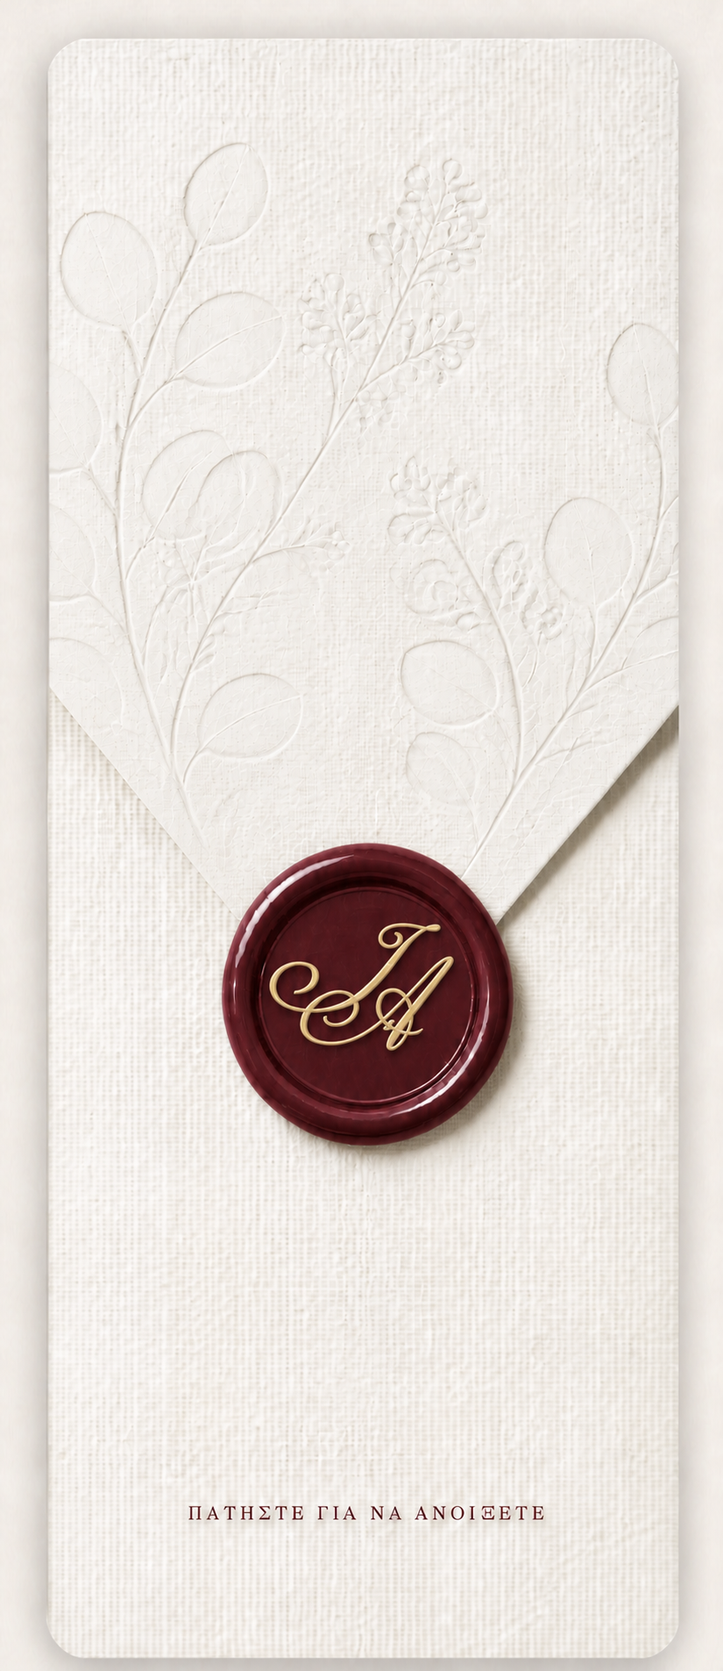
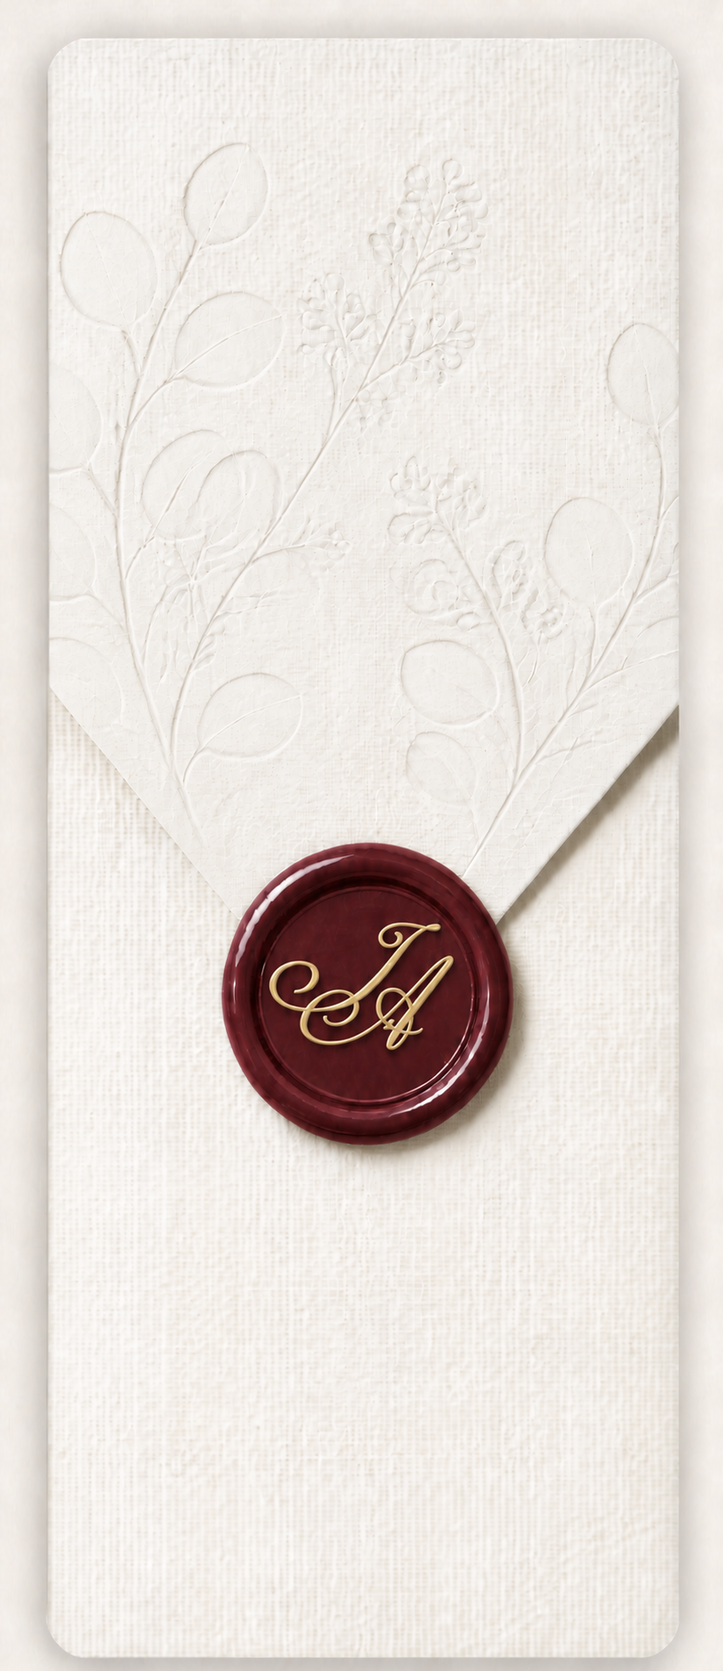
Connect live RSVP and Cloudinary guest uploads; refine invitation

diff --git a/index.html b/index.html
@@ -1,11 +1,11 @@
-<!doctype html><html lang="el"><head><meta charset="utf-8"><meta name="viewport" content="width=device-width,initial-scale=1"><meta name="theme-color" content="#521c2a"><title>Ιωάννης & Αικατερίνη | 27.12.2026</title><meta name="description" content="Στο νέο ξεκίνημα της ζωής μας. Ιωάννης και Αικατερίνη, 27 Δεκεμβρίου 2026 στις 16:30, στον Ιερό Μητροπολιτικό Ναό Αγίου Αχιλλίου Λαρίσης."><meta property="og:type" content="website"><meta property="og:locale" content="el_GR"><meta property="og:title" content="Ιωάννης & Αικατερίνη | 27.12.2026"><meta property="og:description" content="Η παρουσία, οι ευχές και οι προσευχές σας είναι για εμάς το πολυτιμότερο δώρο."><meta property="og:image" content="https://giannispap232.github.io/share-thumbnail.png"><meta property="og:image:width" content="1200"><meta property="og:image:height" content="1200"><meta property="og:image:alt" content="Ιωάννης και Αικατερίνη, 27 Δεκεμβρίου 2026"><meta name="twitter:card" content="summary_large_image"><meta name="twitter:title" content="Ιωάννης & Αικατερίνη | 27.12.2026"><meta name="twitter:description" content="Στο νέο ξεκίνημα της ζωής μας."><meta name="twitter:image" content="https://giannispap232.github.io/share-thumbnail.png"><link rel="icon" href="favicon.png" type="image/png"><link rel="apple-touch-icon" href="apple-touch-icon.png"><link rel="stylesheet" href="design.css"><link rel="stylesheet" href="fix.css"><link rel="stylesheet" href="contrast.css"><link rel="stylesheet" href="responsive.css"><link rel="stylesheet" href="brand.css?v=refinements1"><link rel="canonical" href="https://giannispap232.github.io/"><meta property="og:url" content="https://giannispap232.github.io/"></head><body class="locked"><section class="intro" id="intro"><button class="envelope" id="envelope" aria-label="Ανοίξτε το προσκλητήριο"><span class="env-back"></span><span class="env-front"></span><span class="flap"></span></button><p class="tap">Πατήστε τη σφραγίδα</p></section>
+<!doctype html><html lang="el"><head><meta charset="utf-8"><meta name="viewport" content="width=device-width,initial-scale=1"><meta name="theme-color" content="#521c2a"><title>Ιωάννης & Αικατερίνη | 27.12.2026</title><meta name="description" content="Στο νέο ξεκίνημα της ζωής μας. Ιωάννης και Αικατερίνη, 27 Δεκεμβρίου 2026 στις 16:30, στον Ιερό Μητροπολιτικό Ναό Αγίου Αχιλλίου Λαρίσης."><meta property="og:type" content="website"><meta property="og:locale" content="el_GR"><meta property="og:title" content="Ιωάννης & Αικατερίνη | 27.12.2026"><meta property="og:description" content="Η παρουσία, οι ευχές και οι προσευχές σας είναι για εμάς το πολυτιμότερο δώρο."><meta property="og:image" content="https://giannispap232.github.io/share-thumbnail.png"><meta property="og:image:width" content="1200"><meta property="og:image:height" content="1200"><meta property="og:image:alt" content="Ιωάννης και Αικατερίνη, 27 Δεκεμβρίου 2026"><meta name="twitter:card" content="summary_large_image"><meta name="twitter:title" content="Ιωάννης & Αικατερίνη | 27.12.2026"><meta name="twitter:description" content="Στο νέο ξεκίνημα της ζωής μας."><meta name="twitter:image" content="https://giannispap232.github.io/share-thumbnail.png"><link rel="icon" href="favicon.png" type="image/png"><link rel="apple-touch-icon" href="apple-touch-icon.png"><link rel="stylesheet" href="design.css"><link rel="stylesheet" href="fix.css"><link rel="stylesheet" href="contrast.css"><link rel="stylesheet" href="responsive.css"><link rel="stylesheet" href="brand.css?v=layout3"><link rel="canonical" href="https://giannispap232.github.io/"><meta property="og:url" content="https://giannispap232.github.io/"></head><body class="locked"><section class="intro" id="intro"><button class="envelope" id="envelope" aria-label="Ανοίξτε το προσκλητήριο"><span class="env-back"></span><span class="env-front"></span><span class="flap"></span></button><p class="tap">Πατήστε για να ανοίξετε</p></section>
 <main id="content" inert aria-hidden="true">
   <section class="date-hero section"><div class="date-stack reveal-down" aria-label="Ιωάννης και Αικατερίνη, 27 Δεκεμβρίου 2026"><span class="hero-number">27</span><b class="groom-name"><img src="name-ioannis.svg" alt="Ιωάννης"></b><div class="middle-date"><span class="hero-number">12</span></div><b class="bride-name"><img src="name-aikaterini.svg" alt="Αικατερίνη"></b><span class="hero-number">26</span></div></section>
   <section class="countdown-section section reveal-up" id="countdown"><h2>Και μετράμε αντίστροφα:</h2><div class="countdown"><div><b id="days">—</b><small>Ημέρες</small></div><div><b id="hours">—</b><small>Ώρες</small></div><div><b id="minutes">—</b><small>Λεπτά</small></div><div><b id="seconds">—</b><small>Δ/λεπτα</small></div></div></section>
-  <section class="invitation section floral-section"><div class="photo-panel"><img id="couplePhoto" src="couple.jpg" alt="Ο Ιωάννης και η Αικατερίνη μαζί"></div><div class="invite-card"><p class="verse">…καὶ εὐαρεστήσαντες<br>ἐνώπιόν σου<br>λάμψωσιν ὡς φωστῆρες<br>ἐν οὐρανῷ…</p><span class="divider">✦</span><h1 class="exact-names"><img src="name-ioannis.svg" alt="Ιωάννης"><img class="amp-art" src="ampersand.svg" alt="&"><img src="name-aikaterini.svg" alt="Αικατερίνη"></h1><div class="people"><div><h2>Οι οικογένειες</h2><p>π. Δημητρίου & Ιφιγένειας Παπαγεωργίου<br>Χρήστου & Φωτεινής Τζίκα</p></div><div><h2>Ο κουμπάρος</h2><p>Χρήστος Παπαχαραλάμπους</p></div></div></div></section><section class="wedding-day section reveal-up"><h2>Η Μέρα του Γάμου</h2><span class="day-star">✦</span><div class="day-cards"><article class="day-card"><span class="day-icon" aria-hidden="true"><img src="wedding-rings.svg" alt=""></span><h3>Γάμος</h3><strong>16:30</strong><p>27 Δεκεμβρίου 2026</p><h4>Ιερός Μητροπολιτικός Ναός<br>Αγίου Αχιλλίου Λαρίσης</h4><a target="_blank" rel="noopener" href="https://www.google.com/maps/search/?api=1&query=Ιερός+Μητροπολιτικός+Ναός+Αγίου+Αχιλλίου+Λάρισα">📍 Δείτε στον χάρτη</a></article><article class="day-card"><span class="day-icon" aria-hidden="true"><img src="cutlery.svg" alt=""></span><h3>Δεξίωση</h3><p class="reception-intro">Θα ακολουθήσει δεξίωση στο</p><h4>Κτήμα Πισίνα</h4><a target="_blank" rel="noopener" href="https://www.google.com/maps/search/?api=1&query=Κτήμα+Πισίνα+Λάρισα">📍 Δείτε στον χάρτη</a></article></div></section>
-  <section class="rsvp section" id="rsvp"><div class="rsvp-card"><p>Για την παρουσία σας στο τραπέζι,<br>συμπληρώστε την παρακάτω φόρμα.</p><p class="deadline">Σε περίπτωση απουσίας σας ενημερώστε μας έως 10/12.</p><form id="rsvpForm"><label>Ονοματεπώνυμο<input name="name" required autocomplete="name"></label><label>Τηλέφωνο<input name="phone" type="tel" required autocomplete="tel"></label><fieldset><legend>Θα έρθετε στη δεξίωση;</legend><label class="choice"><input type="radio" name="attendance" value="Ναι" required> Ναι</label><label class="choice"><input type="radio" name="attendance" value="Όχι"> Όχι</label></fieldset><label>Αν ΝΑΙ, πόσα άτομα να σημειώσουμε;<select name="guests" required><option value="">Επιλέξτε</option><option>1</option><option>2</option><option>3</option><option>4</option><option>5</option><option>6</option><option>7</option><option>8</option><option>9</option><option>10</option></select></label><label>Κάτι που θέλετε να μας πείτε…<textarea name="message" rows="3"></textarea></label><button class="button" type="submit">Δοκιμή απάντησης</button><p class="preview-note">Offline προεπισκόπηση: η απάντηση αποθηκεύεται μόνο σε αυτόν τον browser. Δεν αποστέλλεται στο ζευγάρι.</p><p id="formStatus" role="status"></p></form></div></section>
+  <section class="invitation section floral-section"><div class="photo-panel"><img id="couplePhoto" src="couple.jpg" alt="Ο Ιωάννης και η Αικατερίνη μαζί"></div><div class="invite-card"><p class="verse">…καὶ εὐαρεστήσαντες<br>ἐνώπιόν σου<br>λάμψωσιν ὡς φωστῆρες<br>ἐν οὐρανῷ…</p><span class="divider">✦</span><h1 class="exact-names"><img src="name-ioannis.svg" alt="Ιωάννης"><img class="amp-art" src="ampersand.svg" alt="&"><img src="name-aikaterini.svg" alt="Αικατερίνη"></h1><div class="people"><div><h2>Οι οικογένειες</h2><p>π. Δημητρίου & Ιφιγένειας<span class="family-name">Παπαγεωργίου</span><span class="family-group">Χρήστου & Φωτεινής<span class="family-name">Τζίκα</span></span></p></div><div><h2>Ο κουμπάρος</h2><p>Χρήστος Παπαχαραλάμπους</p></div></div></div></section><section class="wedding-day section reveal-up"><h2>Η Μέρα του Γάμου</h2><span class="day-star">✦</span><div class="day-cards"><article class="day-card"><span class="day-icon" aria-hidden="true"><img src="wedding-rings.svg" alt=""></span><h3>Γάμος</h3><strong>16:30</strong><p>27 Δεκεμβρίου 2026</p><h4>Ιερός Μητροπολιτικός Ναός<br>Αγίου Αχιλλίου Λαρίσης</h4><a target="_blank" rel="noopener" href="https://www.google.com/maps/search/?api=1&query=Ιερός+Μητροπολιτικός+Ναός+Αγίου+Αχιλλίου+Λάρισα">📍 Δείτε στον χάρτη</a></article><article class="day-card"><span class="day-icon" aria-hidden="true"><img src="cutlery.svg" alt=""></span><h3>Δεξίωση</h3><p class="reception-intro">Θα ακολουθήσει δεξίωση στο</p><h4>Κτήμα Πισίνα</h4><a target="_blank" rel="noopener" href="https://www.google.com/maps/search/?api=1&query=Κτήμα+Πισίνα+Λάρισα">📍 Δείτε στον χάρτη</a></article></div></section>
+  <section class="rsvp section" id="rsvp"><div class="rsvp-card"><p>Για την παρουσία σας στο τραπέζι,<br>συμπληρώστε την παρακάτω φόρμα.</p><p class="deadline">Σε περίπτωση απουσίας σας ενημερώστε μας έως 10/12.</p><form id="rsvpForm"><label>Ονοματεπώνυμο<input name="name" required autocomplete="name"></label><label>Τηλέφωνο<input name="phone" type="tel" required autocomplete="tel"></label><fieldset><legend>Θα έρθετε στη δεξίωση;</legend><label class="choice"><input type="radio" name="attendance" value="Ναι" required> Ναι</label><label class="choice"><input type="radio" name="attendance" value="Όχι"> Όχι</label></fieldset><label>Αν ΝΑΙ, πόσα άτομα να σημειώσουμε;<select name="guests" required><option value="">Επιλέξτε</option><option>1</option><option>2</option><option>3</option><option>4</option><option>5</option><option>6</option><option>7</option><option>8</option><option>9</option><option>10</option></select></label><label>Κάτι που θέλετε να μας πείτε…<textarea name="message" rows="3"></textarea></label><button class="button" type="submit">Αποστολή απάντησης</button><p id="formStatus" role="status"></p></form></div></section>
 <section class="gift section"><p class="gift-intro">Στο νέο ξεκίνημα της ζωής μας<br>η παρουσία, οι ευχές και οι προσευχές σας<br>είναι για εμάς το πολυτιμότερο δώρο.</p><p class="eyebrow">ΠΡΟΑΙΡΕΤΙΚΗ ΛΙΣΤΑ ΓΑΜΟΥ</p><div class="gift-options"><div class="bank-card"><span class="bank-icon" aria-hidden="true">€</span><h3>Εθνική Τράπεζα</h3><button class="copy-gift" data-copy="GR8901107210000072110317087">GR89 0110 7210 0000 7211 0317 087</button><p class="copy-status" role="status">Πατήστε για αντιγραφή</p></div><div class="bank-card"><span class="bank-icon" aria-hidden="true">✦</span><h3>IRIS Payments</h3><button class="copy-gift" data-copy="6977184895">697 718 4895</button><p class="copy-status" role="status">Πατήστε για αντιγραφή</p></div></div><p class="gift-thanks">Σας ευχαριστούμε θερμά.</p></section>
-<section class="album section"><h2>Οι στιγμές μας</h2><p>Βοηθήστε μας να δημιουργήσουμε ένα μοναδικό ψηφιακό άλμπουμ,<br>γεμάτο χαμόγελα, συγκινήσεις και αυθόρμητες στιγμές!</p><label class="button upload-label" for="photos">Επιλέξτε φωτογραφίες</label><input class="file-input" id="photos" type="file" accept="image/jpeg,image/png,image/webp,image/heic,image/heif" multiple><p class="preview-note">Τοπική δοκιμή: οι φωτογραφίες εμφανίζονται μόνο στη συσκευή σας και δεν ανεβαίνουν στο διαδίκτυο.</p><p id="uploadStatus" role="status"></p><div id="photoPreview" class="photo-preview"></div></section>
+<section class="album section"><h2>Οι στιγμές μας</h2><p>Βοηθήστε μας να δημιουργήσουμε ένα μοναδικό ψηφιακό άλμπουμ,<br>γεμάτο χαμόγελα, συγκινήσεις και αυθόρμητες στιγμές!</p><button type="button" class="soft-button upload-label">Ανεβάστε φωτογραφίες</button><p id="uploadStatus" role="status"></p><div id="photoPreview" class="photo-preview"></div></section>
 <footer class="section"><h2>Στοιχεία επικοινωνίας.</h2><div class="phone-links"><a href="tel:+306971783528"><b>Ιωάννης</b><span>697 178 3528</span></a><a href="tel:+306977184895"><b>Αικατερίνη</b><span>697 718 4895</span></a></div></footer>
-</main><button class="music show" id="music" aria-label="Αναπαραγωγή μουσικής" aria-pressed="false" hidden>♫</button><audio id="audio" src="music.mp3" loop preload="none"></audio><script src="script.js"></script></body></html>
+</main><button class="music show" id="music" aria-label="Αναπαραγωγή μουσικής" aria-pressed="false" hidden><svg viewBox="0 0 24 24" aria-hidden="true" focusable="false"><path fill="currentColor" d="M8 5.5a1 1 0 0 1 1.5-.86l10 6a1 1 0 0 1 0 1.72l-10 6A1 1 0 0 1 8 17.5z"/></svg></button><audio id="audio" src="music.mp3" loop preload="none"></audio><script src="https://upload-widget.cloudinary.com/latest/global/all.js"></script><script src="script.js?v=connected3"></script></body></html>
 

diff --git a/script.js b/script.js
@@ -1,18 +1,65 @@
 'use strict';
 if('scrollRestoration'in history)history.scrollRestoration='manual';
 const $=selector=>document.querySelector(selector),audio=$('#audio'),music=$('#music');
-function musicState(){music.setAttribute('aria-pressed',String(!audio.paused));music.setAttribute('aria-label',audio.paused?'Αναπαραγωγή μουσικής':'Παύση μουσικής');music.textContent=audio.paused?'♫':'Ⅱ'}
+function musicState(){music.setAttribute('aria-pressed',String(!audio.paused));music.setAttribute('aria-label',audio.paused?'Αναπαραγωγή μουσικής':'Παύση μουσικής');music.innerHTML=audio.paused?'<svg viewBox="0 0 24 24" aria-hidden="true" focusable="false"><path fill="currentColor" d="M8 5.5a1 1 0 0 1 1.5-.86l10 6a1 1 0 0 1 0 1.72l-10 6A1 1 0 0 1 8 17.5z"/></svg>':'<svg viewBox="0 0 24 24" aria-hidden="true" focusable="false"><rect x="6" y="5" width="4" height="14" rx=".8" fill="currentColor"/><rect x="14" y="5" width="4" height="14" rx=".8" fill="currentColor"/></svg>'}
 $('#envelope').addEventListener('click',()=>{$('#envelope').classList.add('is-open');audio.play().then(musicState).catch(musicState);setTimeout(()=>{$('#content').inert=false;$('#content').removeAttribute('aria-hidden');document.body.classList.remove('locked');$('#intro').classList.add('open');music.hidden=false;window.scrollTo(0,0);setTimeout(()=>{$('#intro').hidden=true},900)},1200)},{once:true});
 music.addEventListener('click',()=>{if(audio.paused)audio.play().then(musicState).catch(musicState);else{audio.pause();musicState()}});
 $('#content').setAttribute('tabindex','-1');
 $('#envelope').addEventListener('click',()=>setTimeout(()=>$('#content').focus({preventScroll:true}),1250),{once:true});
 const wedding=new Date('2026-12-27T16:30:00+02:00');function tick(){const d=Math.max(0,wedding-Date.now()),v=[Math.floor(d/864e5),Math.floor(d/36e5)%24,Math.floor(d/6e4)%60,Math.floor(d/1e3)%60];['days','hours','minutes','seconds'].forEach((id,i)=>$('#'+id).textContent=String(v[i]).padStart(2,'0'))}tick();setInterval(tick,1000);
 const form=$('#rsvpForm');form.addEventListener('change',()=>{const no=form.elements.attendance.value==='Όχι';form.elements.guests.disabled=no;form.elements.guests.required=!no});
-form.addEventListener('submit',event=>{event.preventDefault();const data=Object.fromEntries(new FormData(form));data.guests=data.attendance==='Όχι'?0:Number(data.guests);data.updatedAt=new Date().toISOString();try{localStorage.setItem('ioannis-aikaterini-offline-rsvp',JSON.stringify(data));$('#formStatus').textContent='Η δοκιμή αποθηκεύτηκε τοπικά. Δεν έχει αποσταλεί απάντηση στο ζευγάρι.'}catch{$('#formStatus').textContent='Η τοπική αποθήκευση δεν επιτρέπεται. Δεν έχει αποσταλεί απάντηση.'}});
 function legacyCopy(value){const input=document.createElement('textarea');input.value=value;input.setAttribute('readonly','');input.style.cssText='position:fixed;opacity:0;pointer-events:none';document.body.appendChild(input);input.select();const copied=document.execCommand('copy');input.remove();return copied}
 document.querySelectorAll('.copy-gift').forEach(button=>button.addEventListener('click',async()=>{let copied=false;try{await navigator.clipboard.writeText(button.dataset.copy);copied=true}catch{copied=legacyCopy(button.dataset.copy)}button.closest('.bank-card').querySelector('.copy-status').textContent=copied?'✓ Αντιγράφηκε!':'Για αντιγραφή: '+button.dataset.copy}));
-let previewUrls=[];$('#photos').addEventListener('change',()=>{previewUrls.forEach(URL.revokeObjectURL);previewUrls=[];const preview=$('#photoPreview');preview.replaceChildren();const files=[...$('#photos').files];if(files.length>20){$('#uploadStatus').textContent='Επιλέξτε έως 20 φωτογραφίες ανά φορά.';$('#photos').value='';return}let accepted=0;for(const file of files){if(file.size>15000000||!(/\.(jpe?g|png|webp|heic|heif)$/i.test(file.name)))continue;accepted++;const figure=document.createElement('figure'),img=document.createElement('img'),caption=document.createElement('figcaption');const url=URL.createObjectURL(file);previewUrls.push(url);img.src=url;img.alt='Τοπική προεπισκόπηση φωτογραφίας';img.onerror=()=>{const note=document.createElement('div');note.className='unsupported';note.textContent='Η προεπισκόπηση αυτού του τύπου δεν υποστηρίζεται στον browser σας.';img.replaceWith(note)};caption.textContent=file.name;figure.append(img,caption);preview.append(figure)}$('#uploadStatus').textContent=accepted?`${accepted} φωτογραφίες επιλέχθηκαν τοπικά. Δεν έχει ανέβει κανένα αρχείο.`:files.length?'Δεν επιλέχθηκαν υποστηριζόμενες φωτογραφίες έως 15 MB.':''});
 const revealObserver=new IntersectionObserver(entries=>entries.forEach(entry=>{if(entry.isIntersecting){entry.target.classList.add('revealed');revealObserver.unobserve(entry.target)}}),{threshold:.12});document.querySelectorAll('.reveal-up,.reveal-down').forEach(el=>revealObserver.observe(el));
 const reduceMotion=matchMedia('(prefers-reduced-motion: reduce)'),photo=$('#couplePhoto'),photoPanel=$('.photo-panel'),flowers=[...document.querySelectorAll('.scroll-flower')];let scrollFrame=0;
 function animateScroll(){scrollFrame=0;if(reduceMotion.matches){photoPanel.style.setProperty('--photo-shift','0px');return}flowers.forEach((el,i)=>{const base=Number(el.dataset.base||0);el.style.transform=`rotate(${base+(i%2?-1:1)*scrollY*.055}deg) scale(${1+Math.min(scrollY,1800)/6000})`});const rect=photoPanel.getBoundingClientRect();if(rect.bottom>0&&rect.top<innerHeight){const progress=(innerHeight/2-(rect.top+rect.height/2))/(innerHeight+rect.height);const shift=Math.max(-rect.height*.075,Math.min(rect.height*.075,progress*rect.height*.2));photoPanel.style.setProperty('--photo-shift',shift.toFixed(2)+'px')}}
 window.addEventListener('scroll',()=>{if(!scrollFrame)scrollFrame=requestAnimationFrame(animateScroll)},{passive:true});window.addEventListener('resize',()=>{if(!scrollFrame)scrollFrame=requestAnimationFrame(animateScroll)});reduceMotion.addEventListener('change',animateScroll);animateScroll();
+
+// Production configuration is assigned after the Google deployment is approved.
+const WEDDING_ENDPOINT='https://script.google.com/macros/s/AKfycbxMYUkIipAofr5_psUrQE4S04gU5XLByS8wIeMRAQFjfIrdCmmB8wsurUokLZ-9sx5NMw/exec';
+function weddingId(){return crypto.randomUUID?crypto.randomUUID():Date.now().toString(36)+'-'+Array.from(crypto.getRandomValues(new Uint8Array(20)),x=>x.toString(16).padStart(2,'0')).join('')}
+let visitorId;try{visitorId=localStorage.getItem('ia-visitor');if(!visitorId){visitorId=weddingId();localStorage.setItem('ia-visitor',visitorId)}}catch{visitorId=weddingId()}
+function acknowledgement(requestId){return new Promise((resolve,reject)=>{
+  const name='ia_ack_'+requestId.replaceAll('-',''),script=document.createElement('script');
+  const cleanup=()=>{clearTimeout(timer);script.remove();delete window[name]};
+  window[name]=value=>{cleanup();resolve(value)};script.onerror=()=>{cleanup();reject(new Error('connection'))};
+  const timer=setTimeout(()=>{cleanup();reject(new Error('timeout'))},12000);
+  script.src=WEDDING_ENDPOINT+'?requestId='+encodeURIComponent(requestId)+'&callback='+name+'&t='+Date.now();document.head.appendChild(script);
+})}
+async function sendWedding(fields,onProgress){
+  if(!WEDDING_ENDPOINT.startsWith('https://script.google.com/macros/s/'))throw new Error('configuration');
+  const requestId=weddingId(),body=new URLSearchParams({...fields,requestId,visitorId});
+  await fetch(WEDDING_ENDPOINT,{method:'POST',mode:'no-cors',redirect:'follow',body});
+  const end=Date.now()+90000;let attempts=0;
+  while(Date.now()<end){
+    try{const answer=await acknowledgement(requestId);if(answer.ok)return;if(answer.error)throw new Error('save_failed')}
+    catch(error){if(error.message==='save_failed')throw error;if(++attempts>4)throw error}
+    if(onProgress)onProgress();await new Promise(resolve=>setTimeout(resolve,1800));
+  }throw new Error('timeout');
+}
+form.addEventListener('submit',async event=>{
+  event.preventDefault();if(!form.reportValidity())return;
+  const button=form.querySelector('[type="submit"]');if(button.disabled)return;button.disabled=true;form.setAttribute('aria-busy','true');
+  const values=Object.fromEntries(new FormData(form));values.guests=values.attendance==='Όχι'?0:Number(values.guests);
+  $('#formStatus').textContent='Η απάντησή σας αποστέλλεται…';
+  try{await sendWedding({action:'rsvp',...values});$('#formStatus').textContent='Η απάντησή σας καταχωρίστηκε. Σας ευχαριστούμε!'}
+  catch{$('#formStatus').textContent='Δεν επιβεβαιώθηκε η καταχώριση. Παρακαλούμε δοκιμάστε ξανά ή επικοινωνήστε μαζί μας στα παρακάτω τηλέφωνα.'}
+  finally{button.disabled=false;form.removeAttribute('aria-busy')}
+});
+document.querySelectorAll('.copy-gift').forEach(button=>button.addEventListener('click',()=>{sendWedding({action:'gift_click',gift:button.dataset.copy.startsWith('GR')?'IBAN':'IRIS'}).catch(()=>{})}));
+const uploadButton=$('.soft-button'),uploadStatus=$('#uploadStatus');
+let uploadWidget;
+uploadButton.addEventListener('click',()=>{
+  if(!window.cloudinary){uploadStatus.textContent='Η μεταφόρτωση δεν φορτώθηκε. Ανανεώστε τη σελίδα και δοκιμάστε ξανά.';return}
+  if(!uploadWidget)uploadWidget=window.cloudinary.createUploadWidget({
+    cloudName:'cxeukl4a',uploadPreset:'wedding_guests_2026',sources:['local','camera'],multiple:true,
+    clientAllowedFormats:['jpg','jpeg','png','webp','heic'],maxFileSize:15000000,maxFiles:20,
+    showAdvancedOptions:false,showCompletedButton:true,singleUploadAutoClose:false,
+    text:{el:{menu:{files:'Από τη συσκευή',camera:'Κάμερα'},local:{browse:'Επιλογή φωτογραφιών',dd_title_single:'Σύρετε μία φωτογραφία εδώ',dd_title_multi:'Σύρετε φωτογραφίες εδώ'},queue:{title:'Αρχεία για ανέβασμα',title_uploading:'Οι φωτογραφίες ανεβαίνουν',title_uploading_with_counter:'Ανεβαίνουν {{num}} φωτογραφίες',title_uploading_processing:'Γίνεται επεξεργασία',done:'Ολοκληρώθηκε',mini_title:'Ανέβηκαν',mini_title_uploading:'Ανεβαίνουν'},notifications:{general_error:'Κάτι πήγε στραβά. Δοκιμάστε ξανά.',completed:'Η μεταφόρτωση ολοκληρώθηκε.'}}}
+  },(error,result)=>{
+    if(error){uploadStatus.textContent='Δεν ολοκληρώθηκε η μεταφόρτωση. Δοκιμάστε ξανά.';return}
+    if(result&&result.event==='success')uploadStatus.textContent='Η φωτογραφία ανέβηκε. Ευχαριστούμε!';
+    if(result&&result.event==='queues-end')uploadStatus.textContent='Οι φωτογραφίες ανέβηκαν. Ευχαριστούμε!';
+  });
+  uploadWidget.open();
+});

diff --git a/brand.css b/brand.css
@@ -17,3 +17,37 @@
 .gift .eyebrow{margin:0 auto 26px}
 @media(min-width:761px){.photo-panel{width:calc(100% - clamp(24px,4vw,64px));margin-left:clamp(24px,4vw,64px);margin-right:0}.photo-panel img{object-position:48% 40%}}
 @media(max-width:760px){.photo-panel{width:calc(100% - 24px);margin:28px 0 0 24px;min-height:0!important;height:auto!important;aspect-ratio:3/4}.photo-panel img{object-position:48% 40%}.day-card{min-height:520px}.day-card a{margin-top:26px}.day-card .reception-intro{margin:0 0 12px}}
+
+/* Readable supporting type and a true vector music control. */
+.music{display:grid!important;place-items:center;padding:0!important;line-height:1!important}
+.music[hidden]{display:none!important}
+.music svg{display:block;width:24px;height:24px;flex-shrink:0}
+.countdown small{font-size:clamp(.9rem,1.25vw,1.05rem)!important;line-height:1.5}
+.family-name{display:block}
+.family-group{display:block;margin-top:18px}
+@media(min-width:761px){
+ .countdown-section h2,.wedding-day>h2,.album h2{font-size:clamp(2.25rem,3.2vw,3.35rem)!important;line-height:1.25!important}
+ .invite-card .people h2{font-size:2rem!important}
+ .invite-card .people p{font-size:clamp(1.25rem,1.7vw,1.45rem)!important;line-height:1.65!important}
+ .invite-card .verse{font-size:clamp(1.25rem,1.7vw,1.5rem)!important}
+ .exact-names{max-width:350px}
+ .day-card h3{font-size:clamp(2rem,2.8vw,2.6rem)!important}
+ .day-card p{font-size:clamp(1.15rem,1.5vw,1.35rem)}
+ .day-card h4{font-size:clamp(1.35rem,1.9vw,1.7rem)!important}
+ .day-card a{font-size:1.1rem}
+ .rsvp label,.rsvp legend,.rsvp input,.rsvp select,.rsvp textarea{font-size:1.125rem}
+ .rsvp-card .deadline{font-size:1.15rem}
+ .gift .eyebrow{font-size:1.2rem}
+ .copy-status{font-size:1rem!important}
+ .album>p,.gift-intro{font-size:1.35rem}
+}
+
+/* Stable viewport instruction, single image layer and balanced gift spacing. */
+.intro .tap{display:block!important;position:absolute;z-index:30;left:18px;right:18px;bottom:max(24px,env(safe-area-inset-bottom));margin:0!important;text-align:center;font:500 clamp(15px,1.5vw,19px)/1.5 Invitation,Georgia,serif;letter-spacing:.08em;color:#521c2a;pointer-events:none;text-transform:none;text-shadow:0 1px 5px #fff}
+.photo-panel{background:none!important;background-image:none!important;border:0!important;box-shadow:none!important}
+.photo-panel::before,.photo-panel::after{display:none!important;content:none!important}
+.photo-panel img{display:block;border:0;outline:0;backface-visibility:hidden;transform:translateY(var(--photo-shift,0px)) scale(1.03);will-change:auto}
+.invitation{background:#faf5e9}
+.gift-options{max-width:1050px;margin-inline:auto;align-items:stretch}
+.gift>p.gift-thanks{margin:40px auto 0!important;text-align:center;line-height:1.6}
+@media(min-width:761px){.invitation{overflow:visible!important}.photo-panel{position:sticky;top:24px;align-self:start;margin-top:48px;margin-bottom:48px}.invite-card{padding-top:48px;padding-bottom:48px}}
